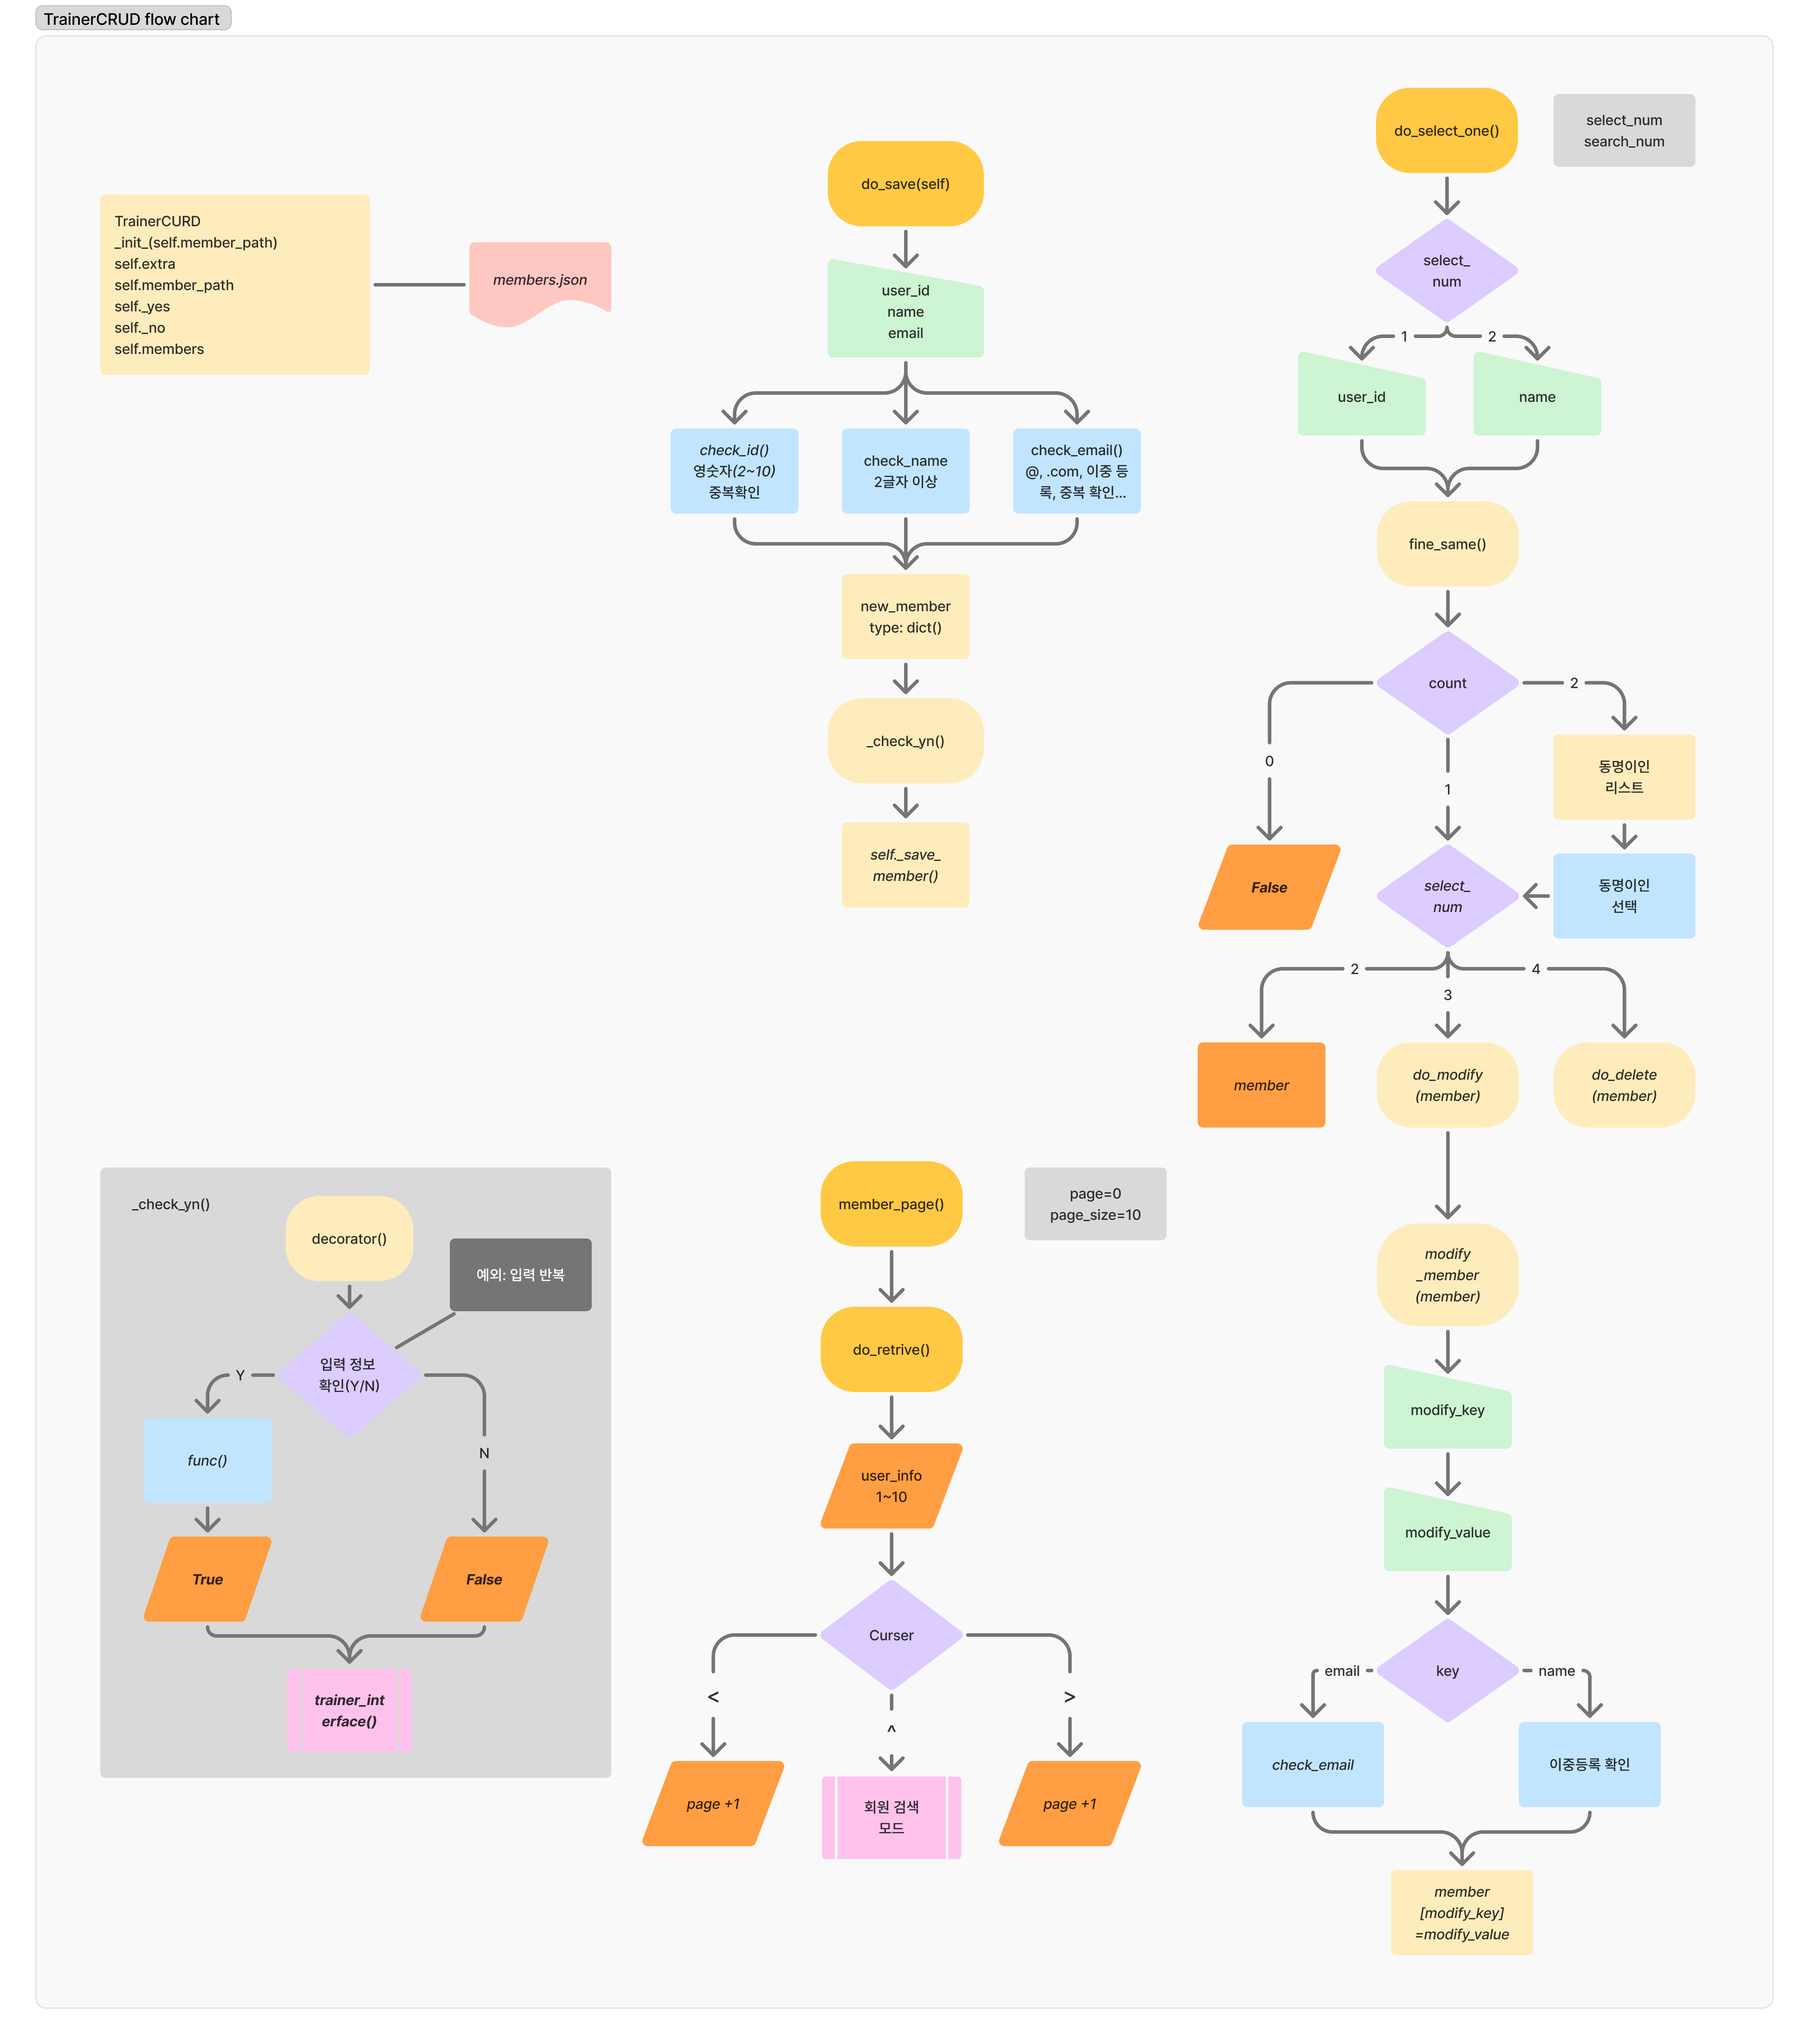
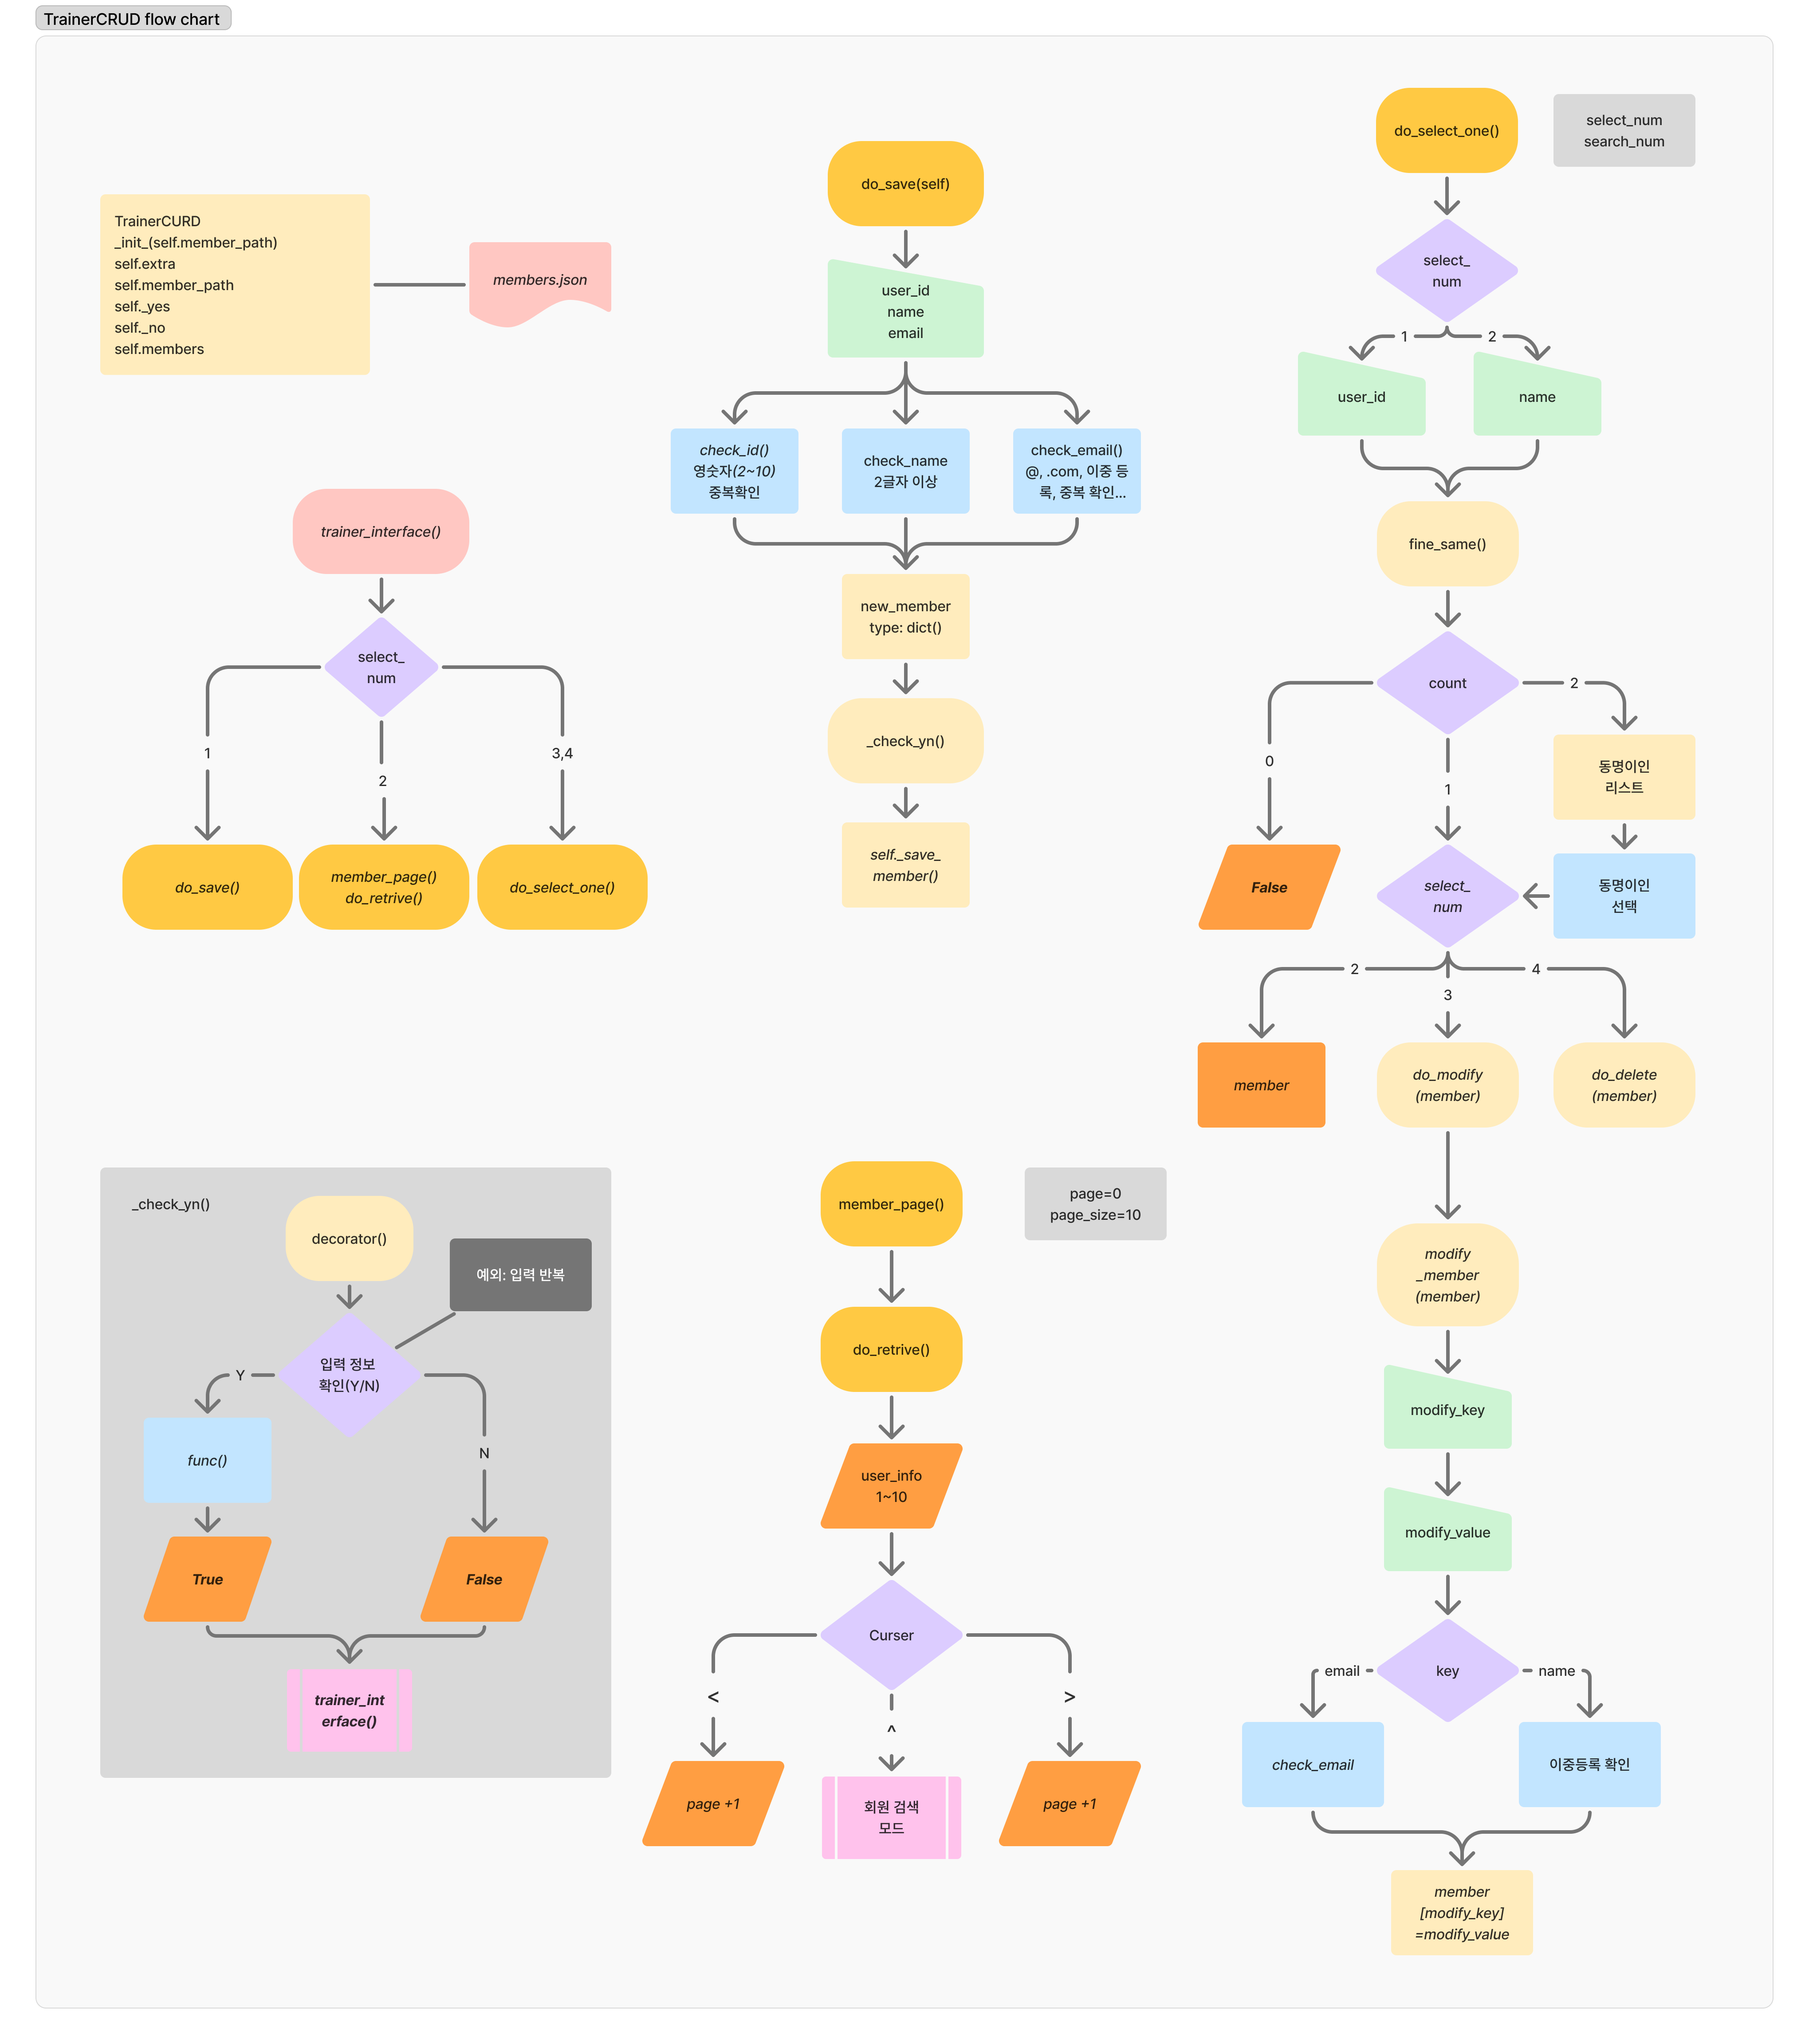
add README.md

Changed region(s): [[0.0623, 0.4062, 0.3737, 0.4688], [0.1557, 0.2188, 0.2803, 0.375]]

diff --git a/applications/machine_list.py b/applications/machine_list.py
@@ -54,11 +54,11 @@ class MachineList:
                         "최초 등록일": save_time,
                         "최근 수정일": modify_time,
                     }
-                    print("-"*20)
+                    print("ㅡ"*25)
                     print(
                         f"운동 부위\t: {muscle}\n"
                         f"운동 종류\t: {machine_list}")
-                    print("-"*20)
+                    print("ㅡ"*25)
                     is_save = input("위 정보가 맞습니까?(Y/N): ").strip().lower()
                     return self._add_muscle(is_save, new_machine)
                     # 전체 멤버 데이터베이스에 새 멤버 등록
@@ -117,7 +117,8 @@ class MachineList:
             line = len(num_muscle) + align(num_muscle)
             print(num_muscle)
             for index, muscle in enumerate(self.body_list.copy()):
-                print(f"{index + 1:3d}. {muscle["운동 부위"]}")
+                # print(f"{index + 1:3d}. {muscle["운동 부위"]}")
+                print(f"{muscle["운동 부위"]:^20}")
             print("  o. 돌아가기")
             print("  p. 프로그램 종료")
             print("=" * line)

diff --git a/interface.py b/interface.py
@@ -12,10 +12,10 @@ def login_interface(): #만약 관리자가 많다면 클래스로 변경 및 id
     line1 = len(admin_login) + align(admin_login)
     print(admin_login)
     while True:
-        # login_id = input(" 관리자id: ").strip()
-        # login_pw = input(" 관리자pw: ").strip()
-        login_id = "admin"
-        login_pw = "0000"
+        login_id = input(" 관리자id: ").strip()
+        login_pw = input(" 관리자pw: ").strip()
+        # login_id = "admin"
+        # login_pw = "0000"
         print(f" 관리자id: {login_id}")
         print(f" 관리자pw: {login_pw}")
 
@@ -159,7 +159,6 @@ def search_interface(members, workout, diets, detail_sys, select_num):
                 
             elif search_num == "3":
                 count = True
-                
             
             elif search_num == "4":
                 print("1.아이디, 2.이름, 3.이메일, 4.최초 등록일, 5.최근 수정일")

diff --git a/main.py b/main.py
@@ -21,14 +21,14 @@ def show_logo():
     ]
     
     width = 52
-    print("\033[93m")
+    # print("\033[93m")
     for line in logo:
         if line.startswith("║") and line.endswith("║"):
             content = line[1:-1].strip()
             print("║" + content.center(width) + "║")
         else:
             print(line)
-    print("\033[0m")
+    # print("\033[0m")
 
 
 if __name__ == "__main__":

diff --git a/applications/trainer_crud.py b/applications/trainer_crud.py
@@ -357,7 +357,7 @@ class TrainerCRUD:
         if tf:
             self._save_members()
         return True
-            
+    
     # 회원 삭제 시 부가서비스, 식단, 운동기록의 삭제도 필요함
     @_check_yn
     def do_delete(self, member, idx):       

diff --git a/applications/extra_service.py b/applications/extra_service.py
@@ -78,7 +78,6 @@ class ExtraServiceCRUD:
         else:
             self._write_data(user_id, data)
 
-
     def _today(self):
         '''오늘 날짜 (등록일)'''
         return datetime.now().strftime(DATE_FORMAT)

diff --git a/README.md b/README.md
@@ -1,0 +1,102 @@
+# TrainerCRUD
+
+**Python 기반 콘솔 헬스장 회원 및 운동 관리 프로그램**
+
+TrainerCRUD는 회원 정보, 신체 정보, 운동 및 식단 기록, 운동 기구 목록과 부가 서비스를 관리하는 CLI(Command Line Interface) 프로젝트입니다. 기능별 모듈을 분리하고 JSON 파일에 데이터를 저장하는 구조로 구현했습니다.
+
+## 주요 기능
+
+| 구분 | 설명 |
+| --- | --- |
+| 회원 관리 | 회원 등록, 조회, 수정, 삭제 및 목록 관리 |
+| 신체 정보 | 회원별 신체 정보 및 측정 기록 관리 |
+| 운동 관리 | 운동 종류와 운동 기구 정보 관리 |
+| 운동 기록 | 회원별 운동 기록 관리 |
+| 식단 관리 | 회원별 식단 데이터 관리 |
+| 부가 서비스 | 회원별 부가 서비스 정보 관리 |
+
+> 세부 입력 항목과 지원 기능은 버전에 따라 달라질 수 있습니다.
+
+## 기술 스택
+
+- **Language:** Python
+- **Interface:** CLI (콘솔 메뉴)
+- **Storage:** JSON 파일
+- **Version Control:** Git / GitHub
+
+## 프로젝트 구조 (File Tree)
+
+```text
+TrainerCRUD/
+├── applications/             # 기능별 비즈니스 로직
+│   ├── __init__.py
+│   ├── trainer_crud.py        # 회원 CRUD
+│   ├── machine_list.py        # 운동 기구 관리
+│   ├── extra_service.py       # 부가 서비스 관리
+│   ├── details.py             # 회원 신체 정보 관리
+│   ├── diet.py                # 식단 관리
+│   ├── workout_crud.py        # 운동 관련 CRUD
+│   └── utils.py               # 공통 유틸리티
+├── data/                     # JSON 데이터 저장소
+│   ├── members.json           # 전체 회원 목록
+│   ├── muscles.json           # 운동 부위/종류 데이터
+│   ├── workouts.json          # 운동 관련 공통 데이터
+│   └── members/              # 회원별 데이터 디렉터리
+│       └── <user_id>/
+│           ├── details.json
+│           ├── workouts.json
+│           ├── diet.json
+│           └── extra_service.json
+├── image/                    # 프로젝트 이미지
+├── interface.py              # 콘솔 메뉴 및 기능 연결
+├── main.py                   # 프로그램 실행 진입점
+├── file_tree.txt             # 파일 구조 안내
+├── .gitignore
+└── README.md
+```
+
+위 트리는 저장소의 `file_tree.txt`를 바탕으로 정리한 주요 파일 구조입니다. 실제 파일 및 회원별 데이터 디렉터리는 버전에 따라 다를 수 있습니다.
+
+## 설치 및 실행
+
+### 1. 저장소 복제
+
+Windows CMD에서 다음 명령어를 실행합니다.
+
+```cmd
+git clone https://github.com/AlwaysHoon/TrainerCRUD.git
+cd TrainerCRUD
+```
+
+### 2. 프로그램 실행
+
+프로젝트 최상위 디렉터리에서 실행합니다.
+
+```cmd
+python main.py
+```
+
+Python이 설치되어 있어야 합니다. 추가 패키지 의존성은 실행 환경과 소스 코드의 import 구문을 확인해 주세요.
+
+
+## 데이터 관리 방식
+
+전체 회원 목록은 `data/members.json`에서 관리하고, 회원별 세부 정보는 `data/members/<user_id>/` 아래에 구분해 저장하는 구조입니다.
+
+이 방식은 기능별 모듈과 회원별 데이터를 분리하기 쉬운 장점이 있습니다. 다만 JSON 파일을 직접 읽고 쓰는 방식이므로 다중 사용자 동시 수정, 접근 권한 관리, 데이터 무결성 보장 등이 필요한 운영 환경에서는 데이터베이스 도입을 고려해야 합니다.
+
+## 설계 특징
+
+- **모듈화:** 회원, 운동, 식단, 부가 서비스를 독립된 Python 모듈로 구성
+- **CRUD 중심:** 데이터 생성(Create), 조회(Read), 수정(Update), 삭제(Delete) 기능 구현
+- **파일 기반 저장:** 별도 데이터베이스 서버 없이 JSON 파일 사용
+- **콘솔 인터페이스:** 터미널에서 메뉴 기반으로 조작
+- **확장 가능성:** 기능별 모듈 구조를 바탕으로 기능 추가 및 저장소 교체 가능
+
+## 저장소
+
+- GitHub: https://github.com/AlwaysHoon/TrainerCRUD
+
+---
+
+> 본 프로젝트는 Python의 클래스 설계, CRUD, 파일 입출력, 모듈화 및 데이터 관리 구조를 연습하기 위해 제작되었습니다.
